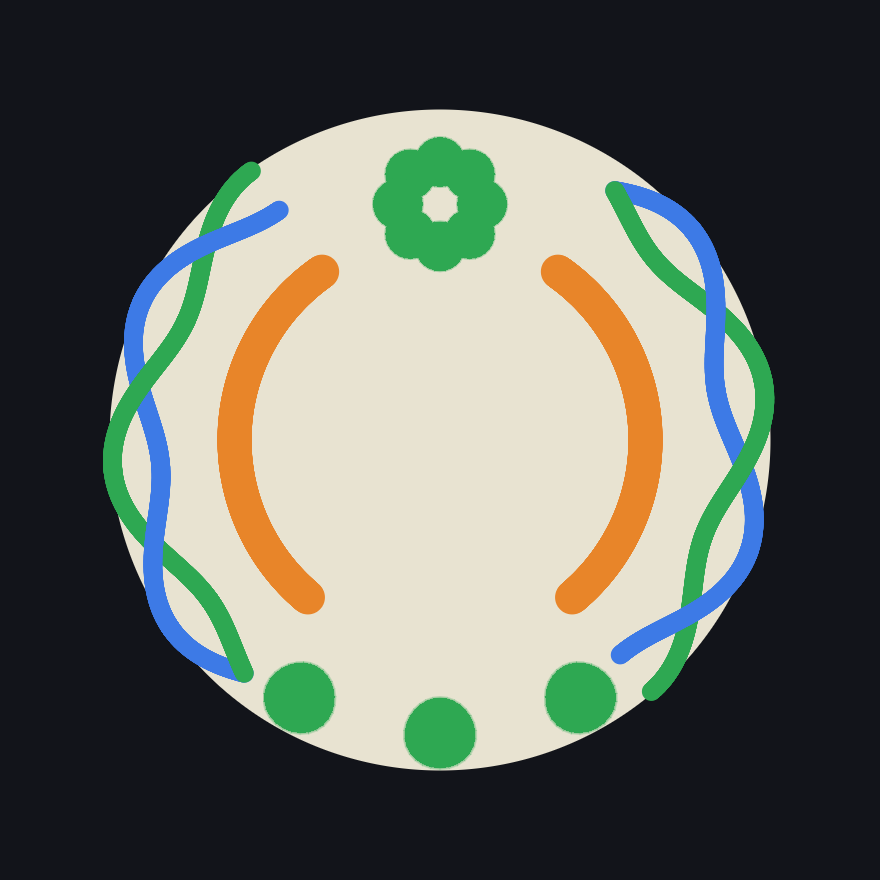
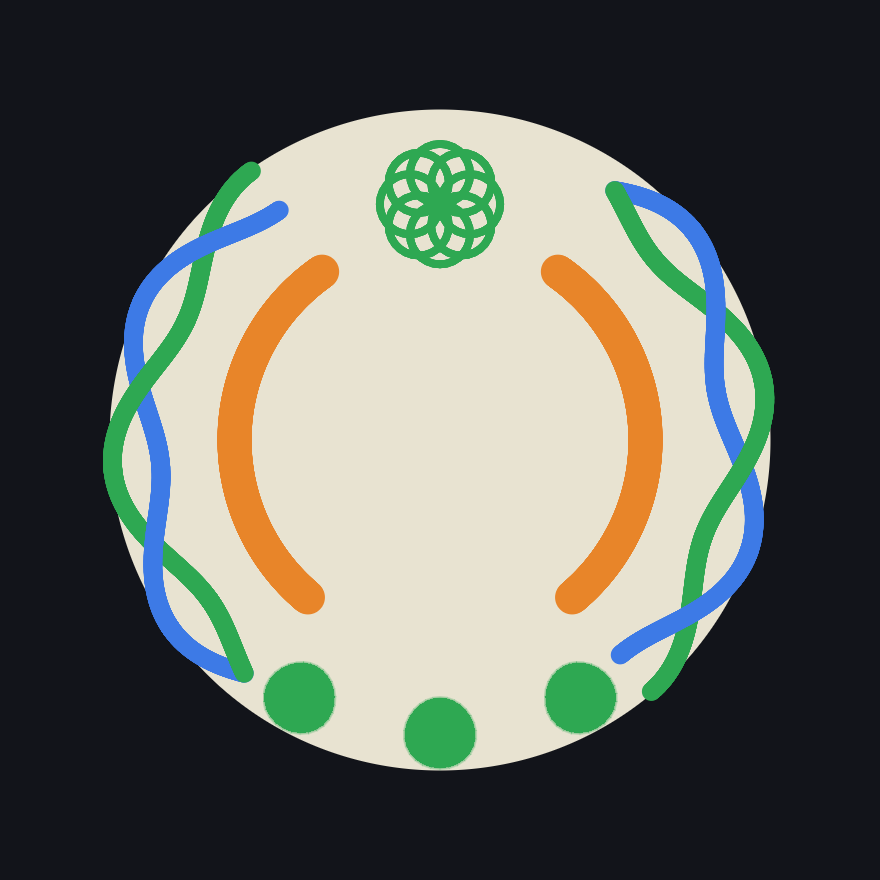
fix(game): stroke the Rosette as eight outlined rings
Draw the emblem as the board's eight generating circles: overlapping
stroked, unfilled rings with the tile face showing through. Glyph-only;
no rule or bench rerun.

Changed region(s): [[0.3989, 0.1534, 0.583, 0.3068]]

diff --git a/apa-kan/game/src/visual.rs b/apa-kan/game/src/visual.rs
@@ -1109,20 +1109,22 @@ impl TileRingDraw {
 			.collect()
 	}
 
-	/// Eight-petal rosette matching the board's generating-circle motif.
-	pub fn rosette_petals(
+	/// Eight overlapping outlined rings matching the board's generating-circle
+	/// motif (`d == petal_r`). Unfilled: tile face shows through.
+	pub fn rosette_strokes(
 		self,
 		tile_center: [f32; 2],
 		tile_radius: f32,
 		up: [f32; 2],
-	) -> Vec<Vec<[f32; 2]>> {
+	) -> Vec<EmblemStroke> {
 		let (origin, theta, rho) = self.emblem_frame(tile_center, tile_radius, up);
 		let unit = self.crescent_radius();
-		let petal_r = unit * 0.33;
-		let d = unit * 0.56;
+		let petal_r = unit * 0.40;
+		let d = petal_r;
+		let width = (self.zag_stroke * 0.30).max(0.45);
 		eight_petal_local(petal_r, d)
 			.into_iter()
-			.map(|pts| emblem_place(origin, theta, rho, &pts))
+			.map(|pts| EmblemStroke { pts: emblem_place(origin, theta, rho, &pts), width })
 			.collect()
 	}
 
@@ -1159,12 +1161,8 @@ impl TileRingDraw {
 				strokes: self.blocker_strokes(tile_center, tile_radius, up),
 			},
 			Emblem::Rosette => EmblemGlyph {
-				fills: self
-					.rosette_petals(tile_center, tile_radius, up)
-					.into_iter()
-					.map(EmblemFill::Poly)
-					.collect(),
-				strokes: Vec::new(),
+				fills: Vec::new(),
+				strokes: self.rosette_strokes(tile_center, tile_radius, up),
 			},
 		}
 	}
@@ -1416,23 +1414,26 @@ fn chambered_diamond_local(h: f32, w: f32) -> Vec<Vec<[f32; 2]>> {
 	vec![outline, cross_v, cross_h]
 }
 
-/// Eight overlapping discs, one petal along +n, matching the 8-circle rosette.
-/// `d` is the center radius; `petal_r` is each generating circle. The board
-/// uses `d == petal_r`; the slot uses a slightly larger `d` so eight lobes
-/// stay readable at emblem size.
+/// Eight overlapping circles, one along +n, matching the board's 8-circle
+/// rosette. Closed polylines so they stroke as rings. The board uses
+/// `d == petal_r` (each generating circle passes through the origin).
 fn eight_petal_local(petal_r: f32, d: f32) -> Vec<Vec<[f32; 2]>> {
 	use std::f32::consts::{FRAC_PI_2, FRAC_PI_4, TAU};
-	let n = TILE_MARK_DOT_SAMPLES.max(14);
+	let n = TILE_MARK_DOT_SAMPLES.max(20);
 	(0..8)
 		.map(|k| {
 			let a = FRAC_PI_2 + k as f32 * FRAC_PI_4;
 			let c = [d * a.cos(), d * a.sin()];
-			(0..n)
+			let mut pts: Vec<[f32; 2]> = (0..n)
 				.map(|i| {
 					let t = TAU * i as f32 / n as f32;
 					[c[0] + petal_r * t.cos(), c[1] + petal_r * t.sin()]
 				})
-				.collect()
+				.collect();
+			if let Some(first) = pts.first().copied() {
+				pts.push(first);
+			}
+			pts
 		})
 		.collect()
 }
@@ -4704,16 +4705,19 @@ mod tests {
 		let min_s = outline.iter().map(|p| p[0]).fold(f32::INFINITY, f32::min);
 		assert!(max_n - min_n > max_s - min_s, "diamond is taller than wide (upright)");
 		let rosette = draw.emblem_glyph(Emblem::Rosette, [0.0, 0.0], r, up);
-		assert_eq!(rosette.fills.len(), 8, "eight petals");
-		assert!(rosette.strokes.is_empty());
-		for fill in &rosette.fills {
-			let EmblemFill::Poly(poly) = fill else {
-				panic!("rosette petals are filled discs");
-			};
-			assert!(poly.len() >= 12);
-			for p in poly {
+		assert!(rosette.fills.is_empty(), "Rosette is outlined, unfilled rings");
+		assert_eq!(rosette.strokes.len(), 8, "eight generating circles");
+		for stroke in &rosette.strokes {
+			assert!(stroke.pts.len() >= 16, "each ring is a sampled circle");
+			let first = stroke.pts.first().copied();
+			let last = stroke.pts.last().copied();
+			assert_eq!(first, last, "each ring is a closed polyline");
+			for p in &stroke.pts {
 				assert!(p[1] > 0.0, "rosette sits at the top, p={p:?}");
-				assert!(p[0].hypot(p[1]) < r - 0.2, "rosette stays inside the tile, p={p:?}");
+				assert!(
+					p[0].hypot(p[1]) + stroke.width * 0.5 < r - 0.15,
+					"rosette stays inside the tile, p={p:?} r={r}"
+				);
 			}
 		}
 	}

diff --git a/rfc/rfc-001-001-006-emblems/README.md b/rfc/rfc-001-001-006-emblems/README.md
@@ -98,7 +98,7 @@ Emblems sit at the **top** of the tile.
 - Crescent Moon: a simple upright **bowl** (two-circle sliver opening up, thin horns pointing up) with a **single small filled dot** centered in the opening. No star, no rays. Does not polar-warp with the tile arc. Fully inside the tile disc.
 - Two Zag Zs: two identical parallel upright vertical zigzags (lightning: `>` stacked over `<`), sharp corners, uniform stroke. The pair rotates with the tile as a unit. Fully inside the tile disc.
 - Blocker: a **chambered diamond** — outlined four-pointed diamond with concave sides, interior split into four chambers by a cross (quatrefoil lattice). Upright in the slot, inside the rim, clear of the rings.
-- Rosette: an **eight-petal** flower of overlapping discs matching the board's eight generating-circle motif, kept small for the slot.
+- Rosette: **eight overlapping outlined rings** (stroked, unfilled, tile face showing through) matching the board's eight generating-circle motif (`d == petal_r`). Kept small for the slot.
 
 Desktop PNG close-ups: [`emblem_crescent_dot.png`](../../apa-kan/game/screenshots/emblem_crescent_dot.png), [`emblem_crescent_triangle.png`](../../apa-kan/game/screenshots/emblem_crescent_triangle.png), [`emblem_zs_dot.png`](../../apa-kan/game/screenshots/emblem_zs_dot.png), [`emblem_zs_triangle.png`](../../apa-kan/game/screenshots/emblem_zs_triangle.png), [`emblem_blocker_dot.png`](../../apa-kan/game/screenshots/emblem_blocker_dot.png), [`emblem_blocker_triangle.png`](../../apa-kan/game/screenshots/emblem_blocker_triangle.png), [`emblem_rosette_dot.png`](../../apa-kan/game/screenshots/emblem_rosette_dot.png), [`emblem_rosette_triangle.png`](../../apa-kan/game/screenshots/emblem_rosette_triangle.png).
 

diff --git a/apa-kan/game/benchmark_results/emblems/README.md b/apa-kan/game/benchmark_results/emblems/README.md
@@ -16,6 +16,8 @@ shared-channel beads with 2–3 groups (live default), `--pick search`,
 Both seats `--search-profile deep_mcts` (minimax uses the enhanced ID knobs
 from that profile). Work budgets: calibrated `nodes:132000,iters:2600` and
 4× `nodes:528000,iters:10400` (MCTS long uses `iters:10400` only).
+Later emblem H2H should use **only** 4× and long deep_mcts — skip the
+calibrated short package.
 
 Collector archetypes (`--p1-deck` / `--deck-matchups`):
 
